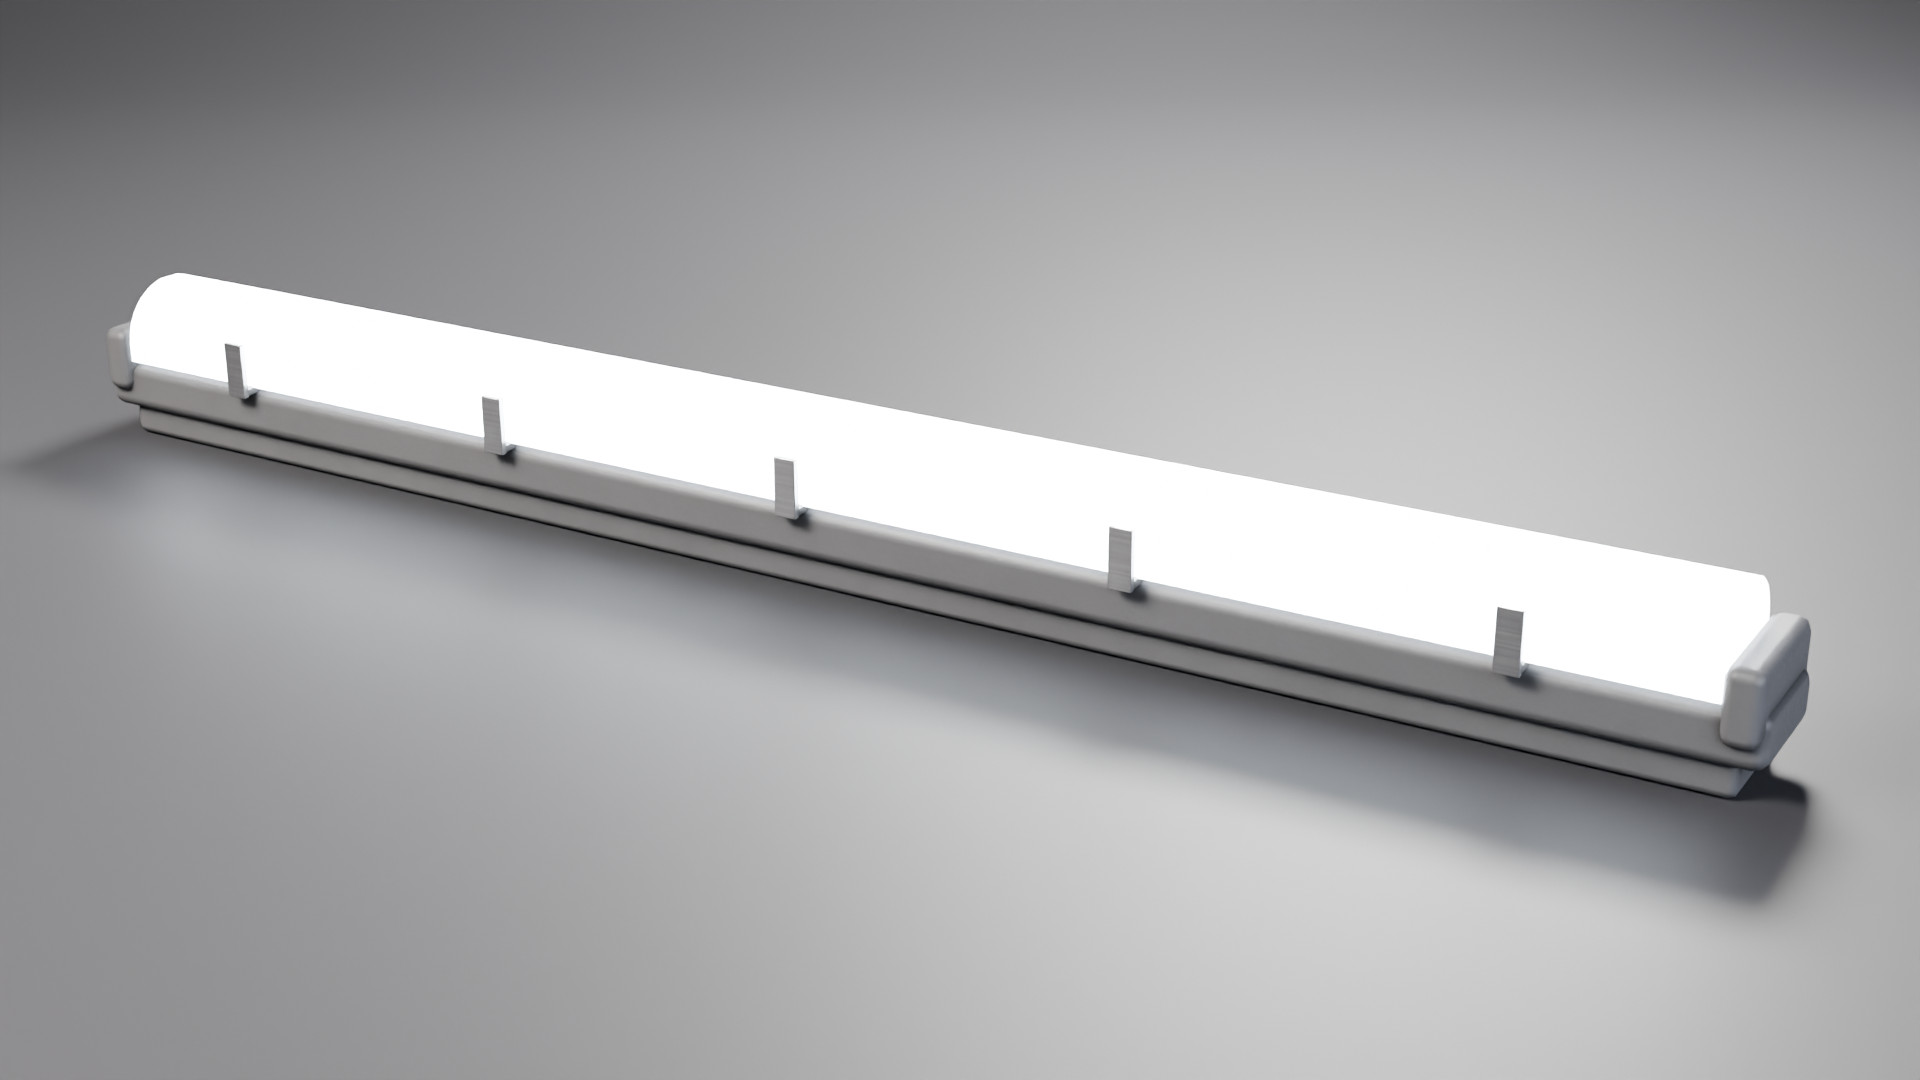
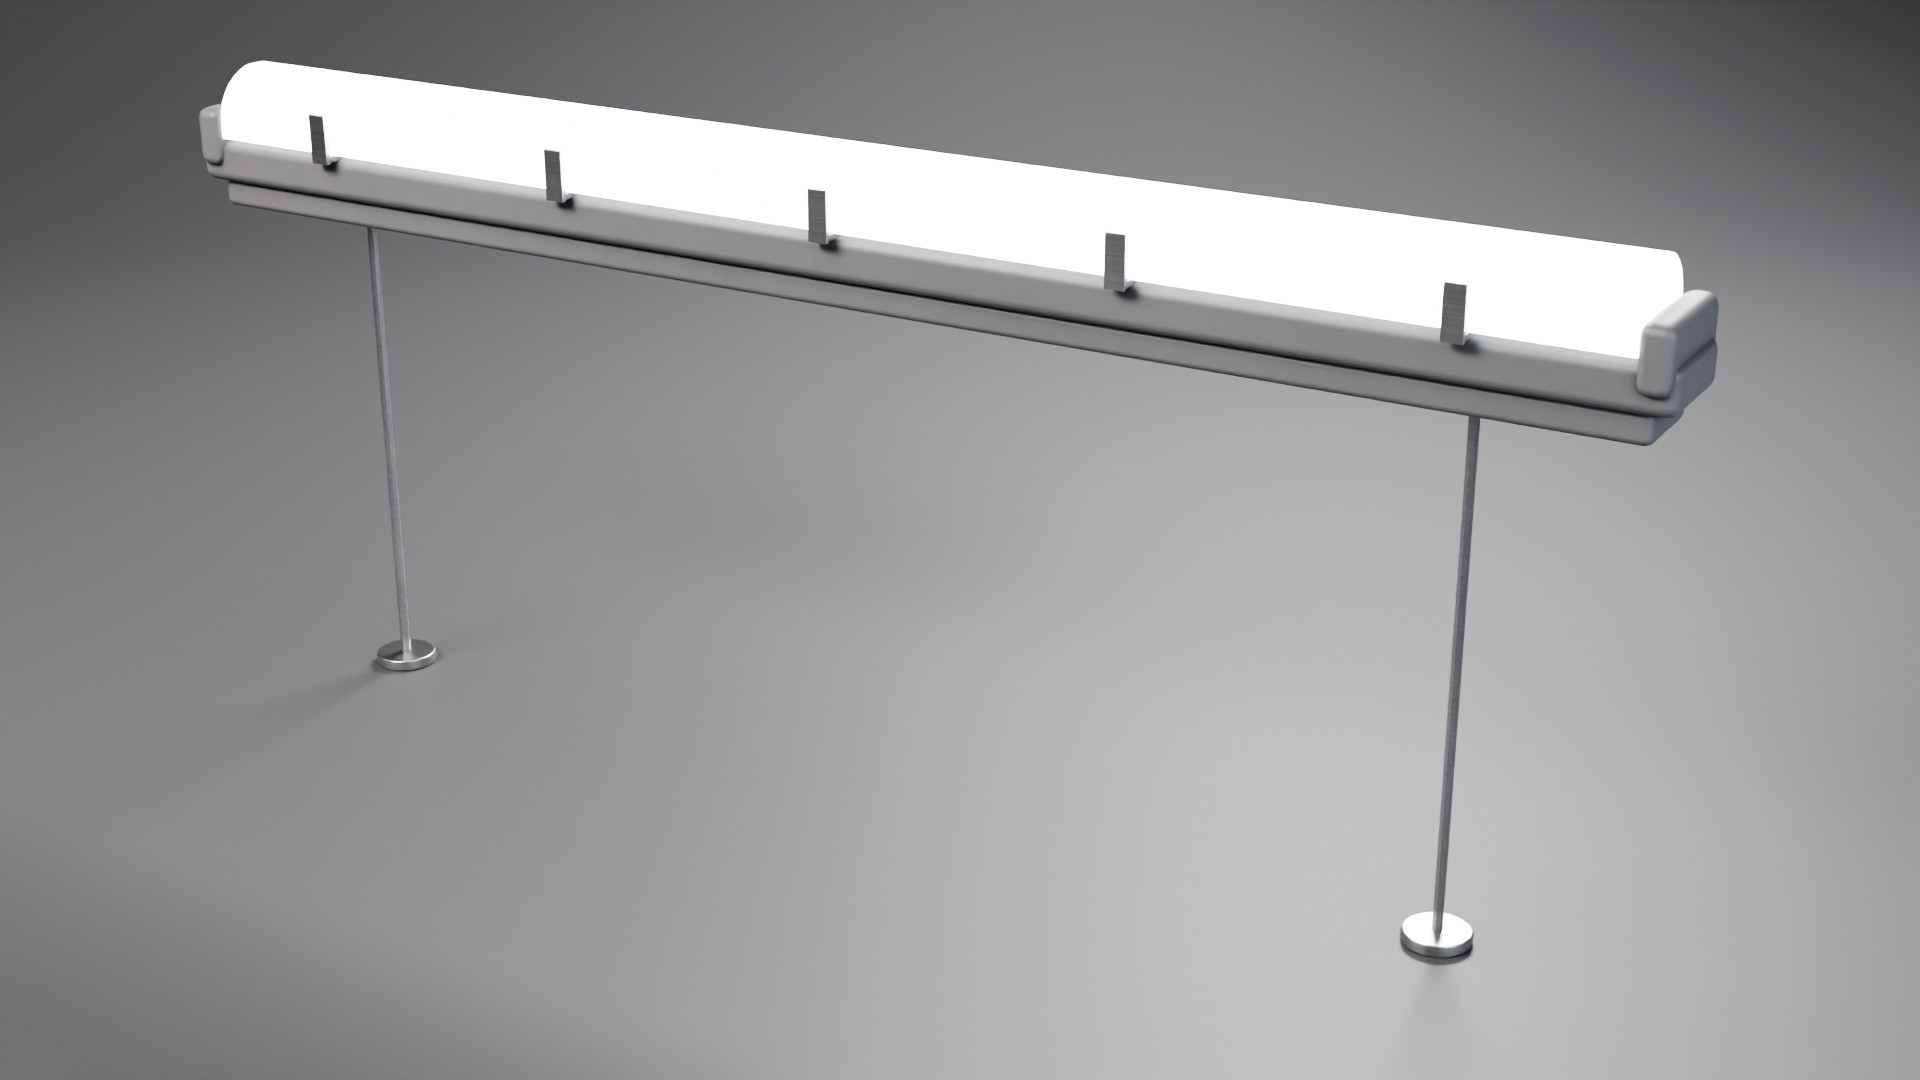
WIP: Nightjar Garage map (agent in progress)
Claude-Session: https://claude.ai/code/session_0118nFYumEjG82mLGbGwmWwA

diff --git a/Tools/Blender/render_scenes.py b/Tools/Blender/render_scenes.py
@@ -1455,22 +1455,23 @@ ROOF_RAIN = {"box": (-31, -23, 6.7, 31, 23, 13.5), "count": 14000, "len": 0.7, "
 HOLE_RAIN = {"box": (-11, 1.3, 3.4, 11, 5.7, 9.5), "count": 3500, "len": 0.6, "width": 0.006, "alpha": 0.45, "seed": 5}
 
 shot("garage_roof", file="10_NightjarGarage_RoofDeck", map="NightjarGarage",
-     caption="Nightjar Garage - the roof deck in the rain: wet concrete, sodium poles, the east tower and the city beyond",
-     cam=(-29.0, -15.2, 8.35), target=(6.0, -2.5, 7.3), lens=24, fstop=4.0, focus=(-10.0, -9.0, 7.4),
-     exposure=1.6, sun_mult=1.0, haze=ROOF_HAZE, rain=ROOF_RAIN, fog_scale=0.03, bloom=0.5, samples=64)
+     caption="Nightjar Garage - the roof deck in the rain from the Red stair tower: wet concrete, sodium poles, "
+             "the Blue tower and the city across the street",
+     cam=(27.6, -0.6, 8.35), target=(-12.0, 1.2, 7.2), lens=24, fstop=4.0, focus=(10.0, 0.0, 7.4),
+     exposure=1.75, sun_mult=1.0, haze=ROOF_HAZE, rain=ROOF_RAIN, fog_scale=0.03, bloom=0.5, samples=32)
 shot("garage_ramp", file="11_NightjarGarage_Ramp", map="NightjarGarage",
      caption="Nightjar Garage - ramp R2 climbing from the mid deck to the roof, sodium wallpacks and rain through the opening",
      cam=(-17.0, 3.2, 4.75), target=(6.0, 3.6, 6.1), lens=26, fstop=4.0, focus=(-6.0, 3.5, 4.4),
-     exposure=1.7, sun_mult=1.0, haze=GARAGE_HAZE, rain=HOLE_RAIN, fog_scale=0.03, bloom=0.5, samples=64)
+     exposure=1.7, sun_mult=1.0, haze=GARAGE_HAZE, rain=HOLE_RAIN, fog_scale=0.03, bloom=0.5, samples=32)
 shot("garage_row", file="12_NightjarGarage_ParkingRow", map="NightjarGarage",
      caption="Nightjar Garage - first-person height down the mid-deck north aisle: fluorescent battens, painted bays, a fender-bender",
-     cam=(-27.5, -14.0, 4.92), target=(10.0, -14.6, 4.6), hfov=80.0, fstop=0, clip_start=0.05,
-     exposure=1.7, sun_mult=1.0, haze=GARAGE_HAZE, fog_scale=0.03, bloom=0.45, samples=64)
-shot("garage_objective", file="13_NightjarGarage_ObjectiveB", map="NightjarGarage",
-     caption="Nightjar Garage - objective B on the median between the ramps, Blue holding it",
-     cam=(-13.1, -2.9, 5.05), target=(5.0, -0.9, 3.7), lens=24, fstop=4.0, focus=(0.0, 0.1, 4.0),
-     objectives={"B": {"team": "Blue"}}, label_yaw="auto", ring_glow=0.05,
-     exposure=1.7, sun_mult=1.0, haze=GARAGE_HAZE, rain=HOLE_RAIN, fog_scale=0.03, bloom=0.5, samples=64)
+     cam=(-29.2, -13.6, 4.92), target=(10.0, -14.4, 4.6), hfov=80.0, fstop=0, clip_start=0.05,
+     exposure=1.7, sun_mult=1.0, haze=GARAGE_HAZE, fog_scale=0.03, bloom=0.45, samples=32)
+shot("garage_objective", file="13_NightjarGarage_ObjectiveC", map="NightjarGarage",
+     caption="Nightjar Garage - objective C on the roof deck in the rain, Red holding it, their stair tower beyond",
+     cam=(-8.5, -9.5, 8.3), target=(6.5, -3.6, 7.2), lens=26, fstop=4.0, focus=(4.0, -2.6, 7.4),
+     objectives={"C": {"team": "Red"}}, label_yaw="auto", ring_glow=0.05,
+     exposure=1.6, sun_mult=1.0, haze=ROOF_HAZE, rain=ROOF_RAIN, fog_scale=0.03, bloom=0.5, samples=32)
 
 
 # --------------------------------------------------------------------------------------

diff --git a/Content/Python/airsoft_setup_lib/layout_garage.py b/Content/Python/airsoft_setup_lib/layout_garage.py
@@ -547,10 +547,10 @@ def _roof_level(L, rng):
     for (x, y, yaw) in ((-22.5, -22.3, 90.0), (0.0, -22.3, 90.0), (22.5, -22.3, 90.0), (-22.5, 22.3, -90.0),
                         (0.0, 22.3, -90.0), (15.0, 22.3, -90.0), (-26.0, 5.6, 0.0), (26.0, -5.6, 180.0)):
         it.append(prop("StreetLamp", x, y, z, yaw, light={"cd": 16.0, "radius": 18.0, "shadows": abs(x) < 1.0}))
-    # puddles (the deck drains badly)
-    for (x, y, sx, sy) in ((-14.0, -8.0, 3.6, 2.2), (6.0, -19.0, 4.2, 1.8), (-6.0, 8.6, 3.0, 2.0), (16.0, 9.0, 2.8, 2.4),
-                           (-24.0, -16.0, 2.4, 3.0), (24.0, 18.0, 3.0, 2.0), (-2.0, -9.2, 2.0, 1.4), (13.0, -9.4, 2.2, 1.6),
-                           (-27.6, 1.0, 2.0, 3.2), (2.0, 20.0, 3.2, 1.6)):
+    # puddles where a roof deck really ponds: aisle low spots under the lamps, the foot of the end walls and
+    # in front of the Red lobby (point-mirrored pairs); the open middle of the deck stays clear
+    for (x, y, sx, sy) in ((-20.0, 14.4, 2.6, 1.3), (20.0, -14.4, 2.6, 1.3), (-28.3, -8.0, 1.1, 2.6), (28.3, 8.0, 1.1, 2.6),
+                           (4.6, 16.4, 2.0, 1.0), (-4.6, -16.4, 2.0, 1.0)):
         it += _puddle(L, x, y, z, sx, sy)
     return it
 
@@ -560,21 +560,25 @@ def _roof_level(L, rng):
 # =============================================================================================
 def _lighting(L):
     it = []
+
+    def batten(x, y, soffit, yaw, light=None):
+        # Garage_LightFluo hangs 0.5 m on its own rods (CeilingMount 0.65), clear of the downstand beams,
+        # so whole rows read down an aisle
+        return [L.prop("Garage_LightFluo", x, y, soffit - 0.65, yaw, hang=soffit, light=light)]
+
     for (z, soffit) in ((Z1, Z2 - SLAB), (Z2, Z3 - SLAB)):
         lit = 0
         for yrow in (-14.3, 14.3):
             for k, x in enumerate((-26.25, -18.75, -11.25, -3.75, 3.75, 11.25, 18.75, 26.25)):
                 on = (k % 2 == (0 if yrow < 0 else 1))
-                it.append(L.prop("Garage_LightFluo", x, yrow, soffit - 0.15, 0.0, hang=soffit,
-                                 light=({"shadows": False} if on else None)))
+                it += batten(x, yrow, soffit, 0.0, light=({"shadows": False} if on else None))
                 lit += 1 if on else 0
         for yrow in (-9.2, 9.2):
             for x in (-18.75, -11.25, 11.25, 18.75, -3.75, 3.75):
-                it.append(L.prop("Garage_LightFluo", x, yrow, soffit - 0.15, 0.0, hang=soffit))
+                it += batten(x, yrow, soffit, 0.0)
         for x in (-18.75, 18.75):
             for y in (-3.0, 3.0):
-                it.append(L.prop("Garage_LightFluo", x, y, soffit - 0.15, 90.0, hang=soffit,
-                                 light=({"shadows": False} if y < 0 else None)))
+                it += batten(x, y, soffit, 90.0, light=({"shadows": False} if y < 0 else None))
         # services: 6 m sprinkler / cable runs crossing the aisles between the beams (parallel to them)
         for yrow in (-14.3, 14.3):
             for c in COL_X[:-1]:

diff --git a/Tools/Unreal/check_layouts.py b/Tools/Unreal/check_layouts.py
@@ -710,7 +710,7 @@ def level_volumes(L, items, assets):
                                            (y1, y1 + wt, zt + wall, "RampWall")):
                     ox, oy = L.rot2((xa + xb) / 2, (ya + yb) / 2, yaw)
                     vols.append(_vol(px + ox, py + oy, pz + top / 2, (xb - xa) / 2, (yb - ya) / 2, top / 2, yaw, 0.0,
-                                     solid=True, los=True, cover=False, kind="ramp", label=aid + ":" + lab))
+                                     solid=True, los=True, cover=(lab == "RampWall"), kind="ramp", label=aid + ":" + lab))
             ox, oy = L.rot2((x0 + x1) / 2, (y0 + y1) / 2, yaw)
             surfs.append({"ramp": True, "c": (px + ox, py + oy), "h": ((x1 - x0) / 2, (y1 - y0) / 2), "ex": ((x1 - x0) / 2, (y1 - y0) / 2),
                           "yaw": yaw, "pitch": 0.0, "z_lo": pz + z0, "z_hi": pz + z1, "label": aid,
@@ -757,7 +757,7 @@ def analyse_levels(L, m, assets, materials, errors, warns, info, plans=True):
     vols, surfs = level_volumes(L, items, assets)
     move = [v for v in vols if v["solid"]]
     sight = [v for v in vols if v["los"] and v["kind"] != "blocker"]
-    cover = [v for v in vols if v["cover"] and v["kind"] in ("box", "prop")]
+    cover = [v for v in vols if v["cover"] and v["kind"] in ("box", "prop", "ramp")]
     midx, lidx, cidx, sidx = Index3(move), Index3(sight), Index3(cover), Index3(surfs)
 
     def blocked(x, y, h, pad):
@@ -995,7 +995,9 @@ def analyse_levels(L, m, assets, materials, errors, warns, info, plans=True):
             best = 99.0
             for i in cidx.near(x, y, 10.0):
                 v = cover[i]
-                if v["z0"] < h + 0.5 and v["z1"] >= h + 0.9 and v["z0"] > h - 0.6:
+                # anything spanning the 0.5-0.9 m band above this surface (stair-core walls and ramp upstands
+                # start far below the tread / slope, so no lower bound on z0)
+                if v["z0"] < h + 0.5 and v["z1"] >= h + 0.9:
                     best = min(best, rect_distance(L, x, y, {"c": v["c"], "h": v["ex"], "yaw": v["yaw"]}))
             cover_dist.append((x, y, h, best))
         ds = sorted(d for (_, _, _, d) in cover_dist)

diff --git a/Tools/Blender/environment/mat_defs.py b/Tools/Blender/environment/mat_defs.py
@@ -1211,23 +1211,20 @@ def m_ConcreteGarage(ctx):
 
 
 def m_ConcreteGarageWet(ctx):
-    """The same deck after rain (roof deck / open ramp): darker saturated concrete, glossy damp film,
-    standing puddles in the low spots and along the joints, oil sheen kept very smooth."""
+    """The same deck after rain (roof deck / open ramp): darker saturated concrete, a glossy wet film that is
+    wetter in the low spots and wheel paths, water standing in the joints and cracks. No standing puddles in
+    the tile itself: it repeats every 4 m, so tiled puddles read as a leopard print - real standing water is
+    placed by the layout as Puddle decals along the drains and parapets."""
     d = garage_deck(ctx)
     lowf = ctx.noise(1.9, oct=3, rough=0.45) - 0.5 * d['wheel']
-    # few, soft-edged mirror patches only: the material tiles every 4 m, so big standing water is placed
-    # as separate Puddle decals in the layout instead (a high tiled coverage reads as a leopard print)
-    puddle = cover(-lowf, 0.03, 0.05)
     damp = cover(-lowf, 0.7, 0.35)
-    bc = d['bc'] * (0.58 - 0.06 * puddle)[..., None]
-    bc = lerp(bc, col('#18191b'), puddle * 0.3)
+    bc = d['bc'] * (0.58 - 0.04 * damp)[..., None]
     jwet = np.clip(d['joint'] * 1.5 + d['crack'], 0, 1)
     bc = lerp(bc, col('#141414'), jwet * 0.4)
-    rough = np.clip(d['rough'] * (1 - 0.6 * damp), 0.12, 1) * (1 - puddle) + 0.02 * puddle
+    rough = np.clip(d['rough'] * (1 - 0.6 * damp), 0.12, 1)
+    rough = rough * (1 - 0.7 * jwet)                     # water held in the grooves
     rough = np.where(d['oil'] > 0.4, np.minimum(rough, 0.2), rough)
-    level = pct(d['h'], 65)
-    h = lerp(d['h'], np.full_like(d['h'], level), puddle)
-    return dict(bc=bc, h=h, rough=rough, metal=0.0, aor=(0.002, 0.008, 0.03), nstr=1.3)
+    return dict(bc=bc, h=d['h'], rough=rough, metal=0.0, aor=(0.002, 0.008, 0.03), nstr=1.3)
 
 
 def line_paint(ctx, paint_hex):

diff --git a/Tools/Blender/garage/garage_assets.py b/Tools/Blender/garage/garage_assets.py
@@ -616,7 +616,8 @@ def elevator_doors(A):
 @asset("Garage_LightFluo", res=1024, collision="None", edge=0.002, ao_dist=0.08)
 def light_fluo(A):
     """Twin-tube vapour-proof batten, 1.56 m: grey polycarbonate body, stainless clips, opal diffuser
-    (the Emissive piece). Mounts flush to the soffit (CeilingMount on top)."""
+    (the Emissive piece), hung 0.5 m below the soffit on two threaded rods with ceiling plates so the rows
+    clear the downstand beams (CeilingMount on the plates)."""
     A.piece("Emissive", "Emissive", res=256, emissive=True)
     A.cur = "Body"
     L = 1.56
@@ -633,7 +634,11 @@ def light_fluo(A):
     prof = [(p[0], max(0.006, p[1])) for p in prof]
     pts = prof + [(0.055, 0.075), (-0.055, 0.075)]
     A.prism([(y, z) for (y, z) in pts], L - 0.07, plane="YZ", at=(0, 0, 0), mat="g_opal", bevel=0.0, piece="Emissive", smooth=60)
-    A.point("CeilingMount", (0, 0, 0.15))
+    # pendant: threaded rods on the end clips, round ceiling plates
+    for sx in (-1, 1):
+        A.cyl(0.005, 0.49, at=(sx * 0.6, 0, 0.15), mat="steel", n=8, bevel=0.0)
+        A.cyl(0.032, 0.012, at=(sx * 0.6, 0, 0.638), mat="steel", n=16, bevel=0.002)
+    A.point("CeilingMount", (0, 0, 0.65))
     A.point("Light", (0, 0, -0.02))
     A.layout = {"Solid": False, "Los": False, "Cover": False}
     A.view = (0.6, -1.0, 0.45)
